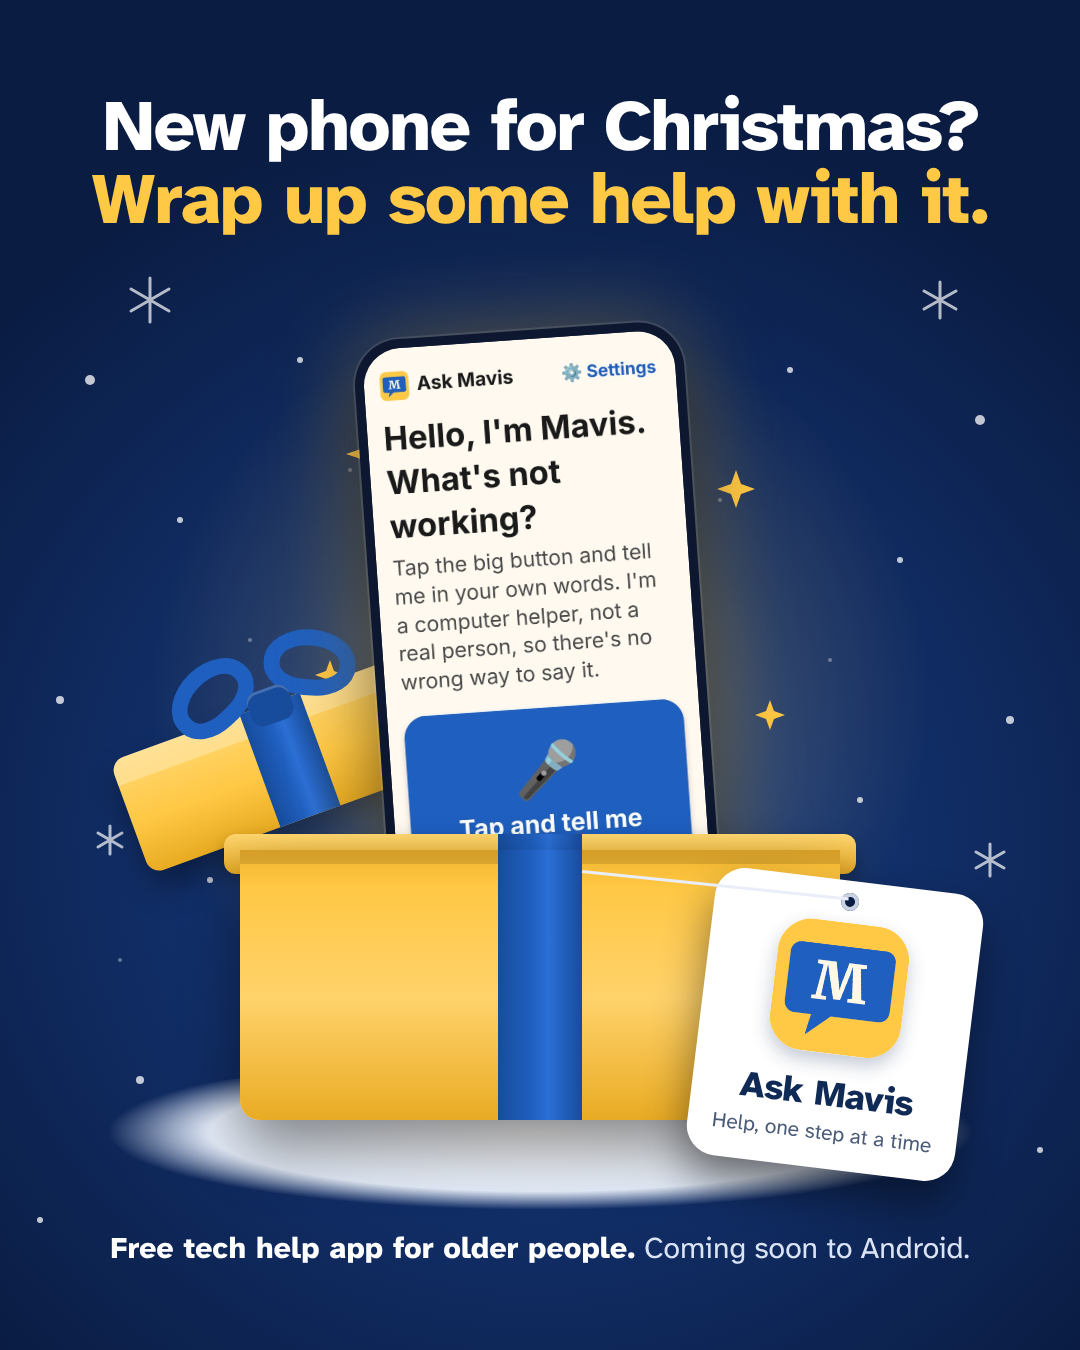
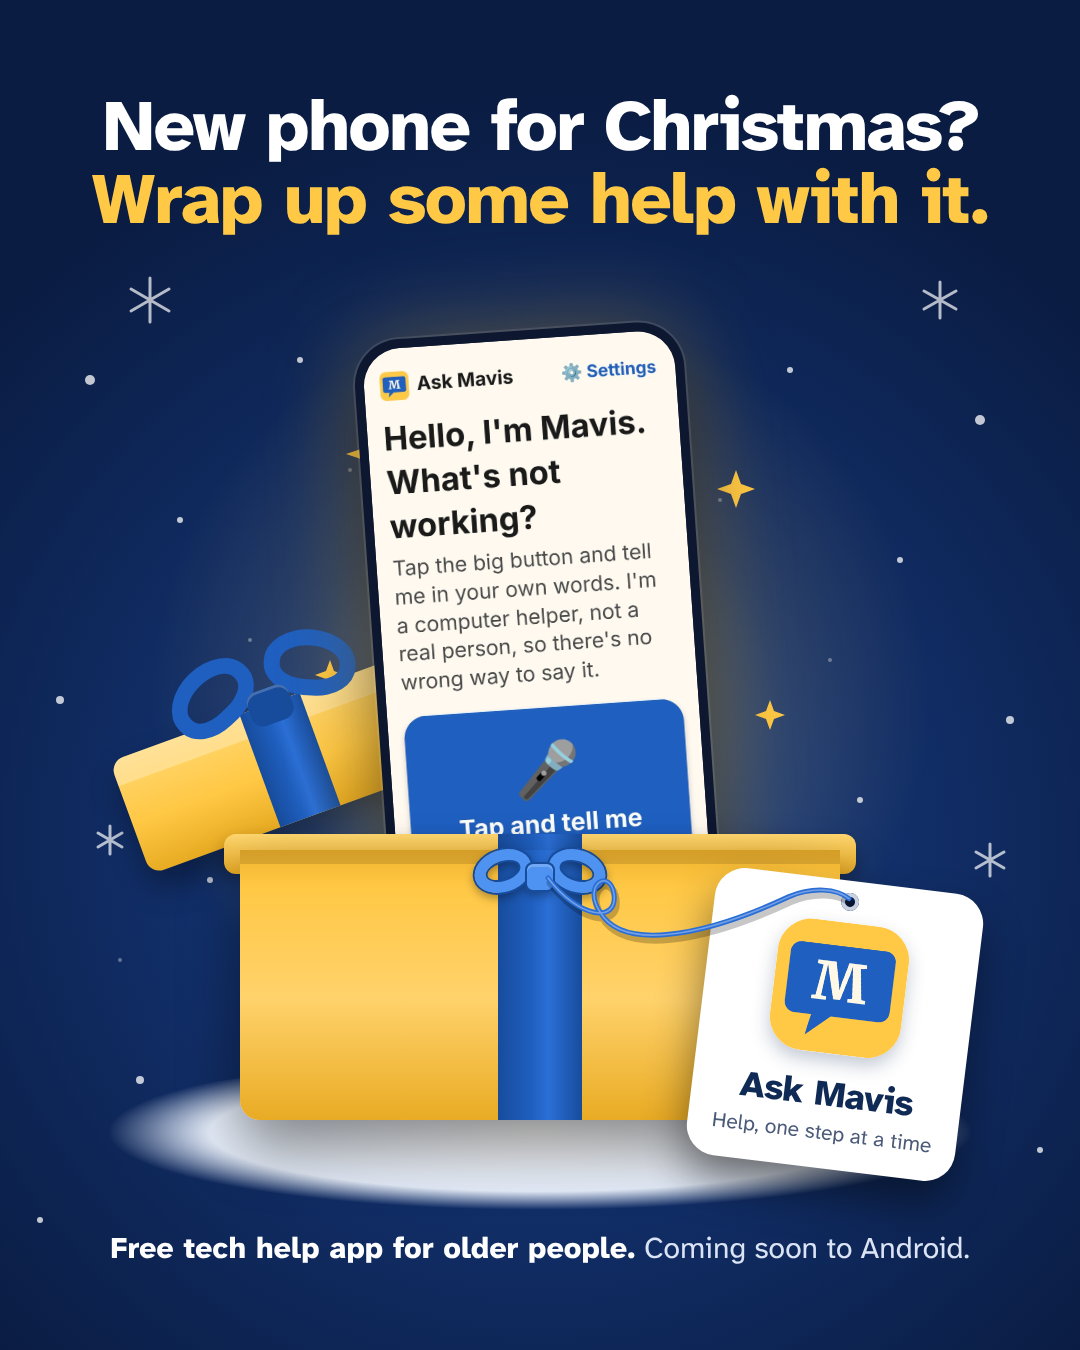
Christmas post: curled ribbon and bow for the gift tag
Claude-Session: https://claude.ai/code/session_01Rq6TRiExn4qsVqqTAS9CFn

Changed region(s): [[0.4278, 0.6222, 0.6722, 0.7156], [0.6722, 0.6533, 0.7944, 0.6844]]

diff --git a/demo/social/v2/xmas/xmas.html b/demo/social/v2/xmas/xmas.html
@@ -32,8 +32,12 @@ h1 em { font-style:normal; color:var(--yellow); }
   background: linear-gradient(180deg, #ffd770, #e9ab24); box-shadow:0 8px 18px rgba(0,0,0,.25); }
 .rim::after { content:""; position:absolute; left:50%; top:0; bottom:0; width:84px; margin-left:-42px; background:linear-gradient(90deg,#174c9c,var(--blue) 40%,#2b6fd6 60%,#174c9c); }
 
-/* the tag: the Mavis icon, big, on a string from the ribbon */
-.string { position:absolute; z-index:4; left:582px; top:870px; height:3px; background:#e9eef8; transform-origin:left center; }
+/* the tag: the Mavis icon, big, tied on with curled ribbon from a knot on the box's ribbon */
+.twine { position:absolute; inset:0; z-index:4; pointer-events:none; overflow:visible; }
+.tie { position:absolute; left:540px; top:846px; width:120px; height:64px; margin-left:-60px; z-index:3; filter:drop-shadow(0 4px 4px rgba(0,0,0,.3)); }
+.tie i { position:absolute; top:4px; width:58px; height:42px; border-radius:50%; border:11px solid #4f93f2; box-shadow: inset 0 0 0 2px #174c9c, 0 0 0 2px #174c9c; }
+.tie i:first-child { left:-6px; transform:rotate(-18deg); } .tie i:nth-child(2) { right:-6px; transform:rotate(18deg); }
+.tie b { position:absolute; left:50%; top:16px; width:30px; height:30px; margin-left:-15px; border:2px solid #174c9c; background:#4f93f2 !important; border-radius:8px; background:#174c9c; box-shadow: inset 0 3px 0 rgba(255,255,255,.2); }
 .tag { position:absolute; left:700px; top:880px; width:270px; padding:20px 20px 22px; border-radius:30px; background:#fff; color:var(--ink); text-align:center;
   transform:rotate(7deg); box-shadow:0 24px 44px rgba(0,0,0,.45); }
 .tag::before { content:""; position:absolute; left:50%; top:12px; width:18px; height:18px; margin-left:-9px; border-radius:50%; background:#0a1c42; box-shadow: inset 0 0 0 4px #c9d2e3; }
@@ -70,8 +74,22 @@ h1 em { font-style:normal; color:var(--yellow); }
   <div class="rim"></div>
   <div class="box"></div>
   <div class="tag"><img src="logo.png" alt=""><b>Ask Mavis</b><span>Help, one step at a time</span></div>
-  <div class="string"></div>
+  <div class="tie"><i></i><i></i><b></b></div>
+  <svg class="twine" viewBox="0 0 1080 1350" aria-hidden="true"><path id="tw-shadow" fill="none" stroke="rgba(0,0,0,.22)" stroke-width="7" stroke-linecap="round"/><path id="tw" fill="none" stroke="#2b6fd6" stroke-width="5" stroke-linecap="round"/><path id="tw-hi" fill="none" stroke="rgba(255,255,255,.35)" stroke-width="1.6" stroke-linecap="round"/></svg>
   <p class="foot"><b>Free tech help app for older people.</b> Coming soon to Android.</p>
 </section>
-<script>addEventListener("load",()=>{const t=document.querySelector(".tag").getBoundingClientRect(),r=document.querySelector("#xmas").getBoundingClientRect(),s=document.querySelector(".string");const hx=t.left+t.width/2-r.left+14, hy=t.top-r.top+34, x0=582,y0=871;const dx=hx-x0,dy=hy-y0;s.style.width=Math.hypot(dx,dy)+"px";s.style.transform="rotate("+Math.atan2(dy,dx)+"rad)";})</script>
+<script>addEventListener("load",()=>{
+  const sec=document.querySelector("#xmas").getBoundingClientRect(), hole=document.querySelector(".tag").getBoundingClientRect();
+  // the tag is turned 7deg: its hole sits a little right of the box's centre line
+  const hx=hole.left+hole.width/2-sec.left+14, hy=hole.top-sec.top+34;
+  const x0=548, y0=878;
+  // a loose ribbon: out of the knot, a curl, a soft sag, then up and through the hole
+  const d=`M${x0} ${y0}
+    C ${x0+30} ${y0+40}, ${x0+70} ${y0+46}, ${x0+66} ${y0+16}
+    C ${x0+62} ${y0-10}, ${x0+34} ${y0+6}, ${x0+52} ${y0+34}
+    C ${x0+74} ${y0+72}, ${hx-150} ${hy+40}, ${hx-60} ${hy-2}
+    C ${hx-36} ${hy-12}, ${hx-12} ${hy-10}, ${hx} ${hy}`;
+  for (const id of ["tw-shadow","tw","tw-hi"]) document.getElementById(id).setAttribute("d", d);
+  document.getElementById("tw-shadow").setAttribute("transform","translate(2 5)");
+});</script>
 </body></html>
